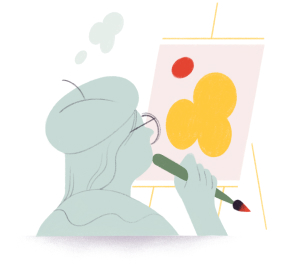
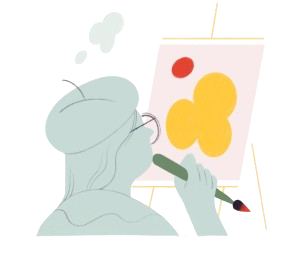
replace pics with transparent background ones

diff --git a/components/application/widgets/ThemeButton.js b/components/application/widgets/ThemeButton.js
@@ -23,7 +23,7 @@ export default function ThemeButton ({ onClick, themeName, isSelected, isDisable
         {/* main pages pic */}
         <span className={styles.mainPic}>
 
-          <span classname={styles.headerPic}>
+          <span className={styles.headerPic}>
             <label>{themeName}</label>
             {isSelected && <Tick/>}
           </span>

diff --git a/components/application/widgets/Modal.js b/components/application/widgets/Modal.js
@@ -37,7 +37,7 @@ export default function Modal(props) {
   return (
     <>
       <div className={styles.overlay_styles} onClick={onDismiss}>
-        <div onClick={containerClickHandler} className={styles.modal_container}>
+        <div onClick={containerClickHandler}>
           {props.children}
         </div>
       </div>

diff --git a/components/application/widgets/LeftItem.js b/components/application/widgets/LeftItem.js
@@ -50,7 +50,7 @@ const LeftbarItem = ({
     >
       <div className={styles.list_item_box} onClick={clickHandler}>
         <Link href={link} passHref>
-          <span>{icon}</span>
+          <span id="icon">{icon}</span>
           <span className={styles.list_item_content}>{label}</span>
         </Link>
       </div>

diff --git a/components/pages/Settings/Account.js b/components/pages/Settings/Account.js
@@ -76,7 +76,7 @@ const SettingAccount = () => {
       <header>
         <h4>Account Information</h4>
         <button onClick={onDismiss}>
-          <Icon type="close"  id="icon"/>
+          <Icon type="close" id="icon"/>
         </button>
       </header>
       {userData ? (

diff --git a/styles/scss/globals.scss b/styles/scss/globals.scss
@@ -51,12 +51,11 @@
     color: $secondaryColor;
   }
 
+  #icon {
+    fill: $secondaryColor;
+  }
 
   #settingRight {
-    #icon {
-      fill: $secondaryColor;
-    }
-
     div {
       border-top: 1px solid $textPrimaryColor;
     }
